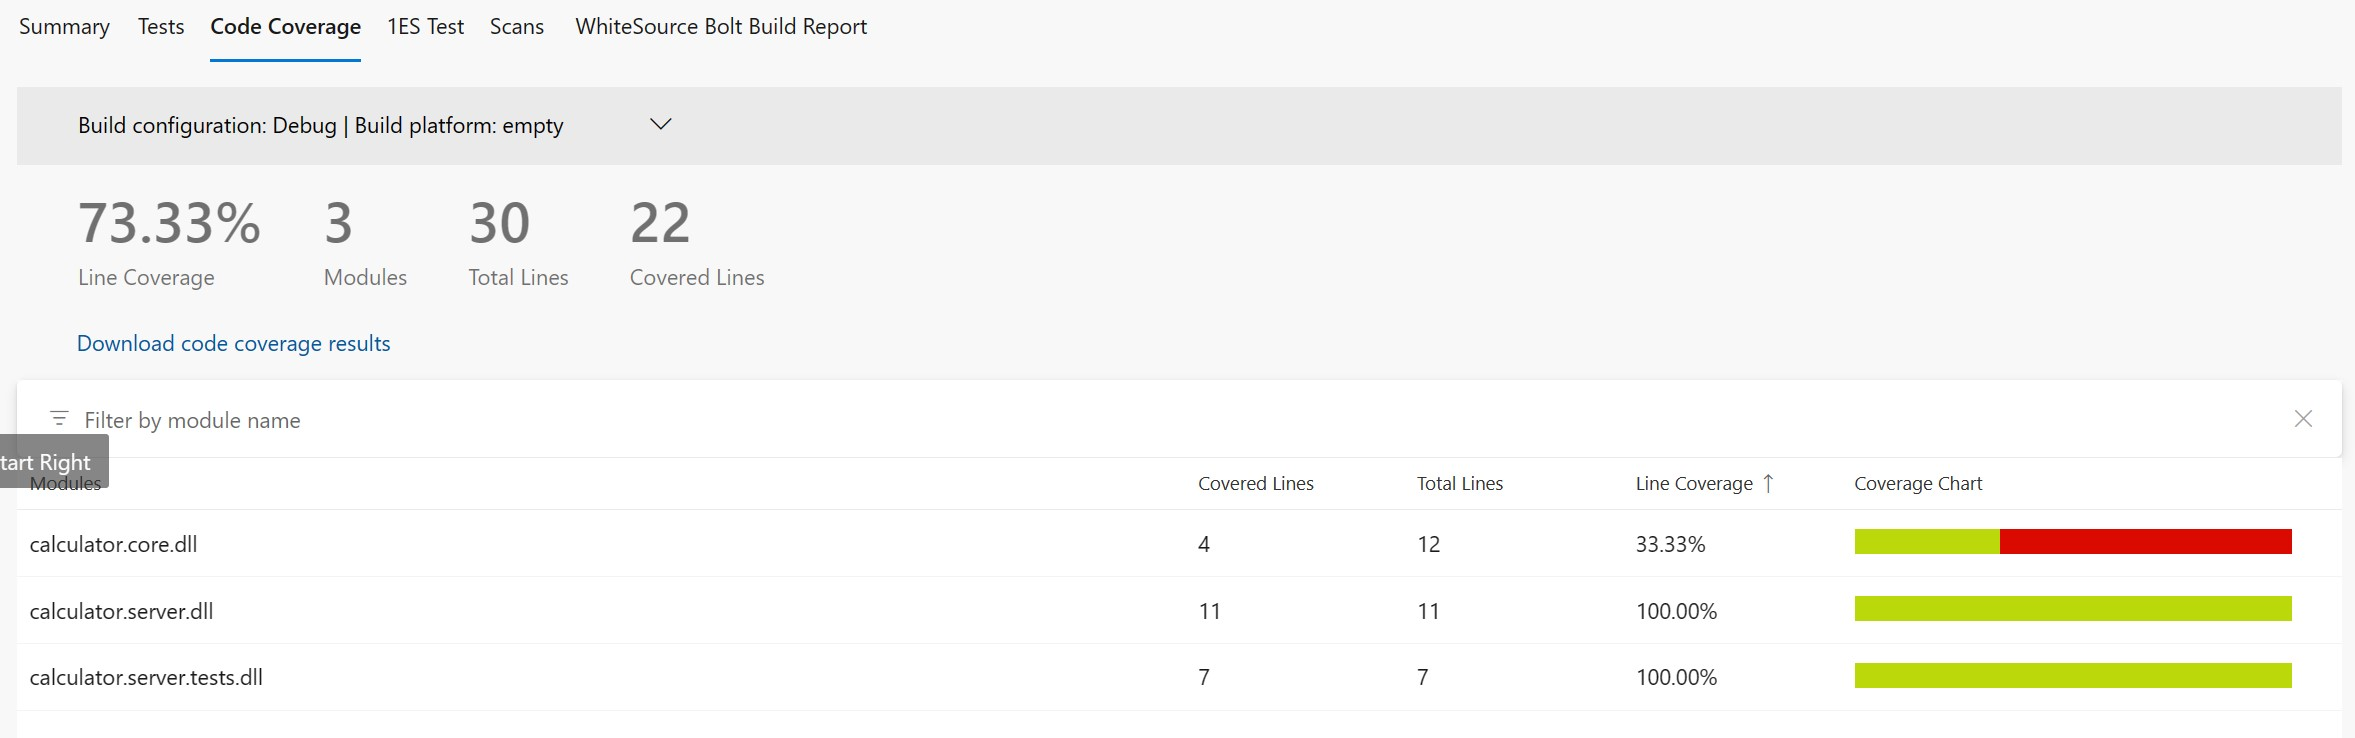
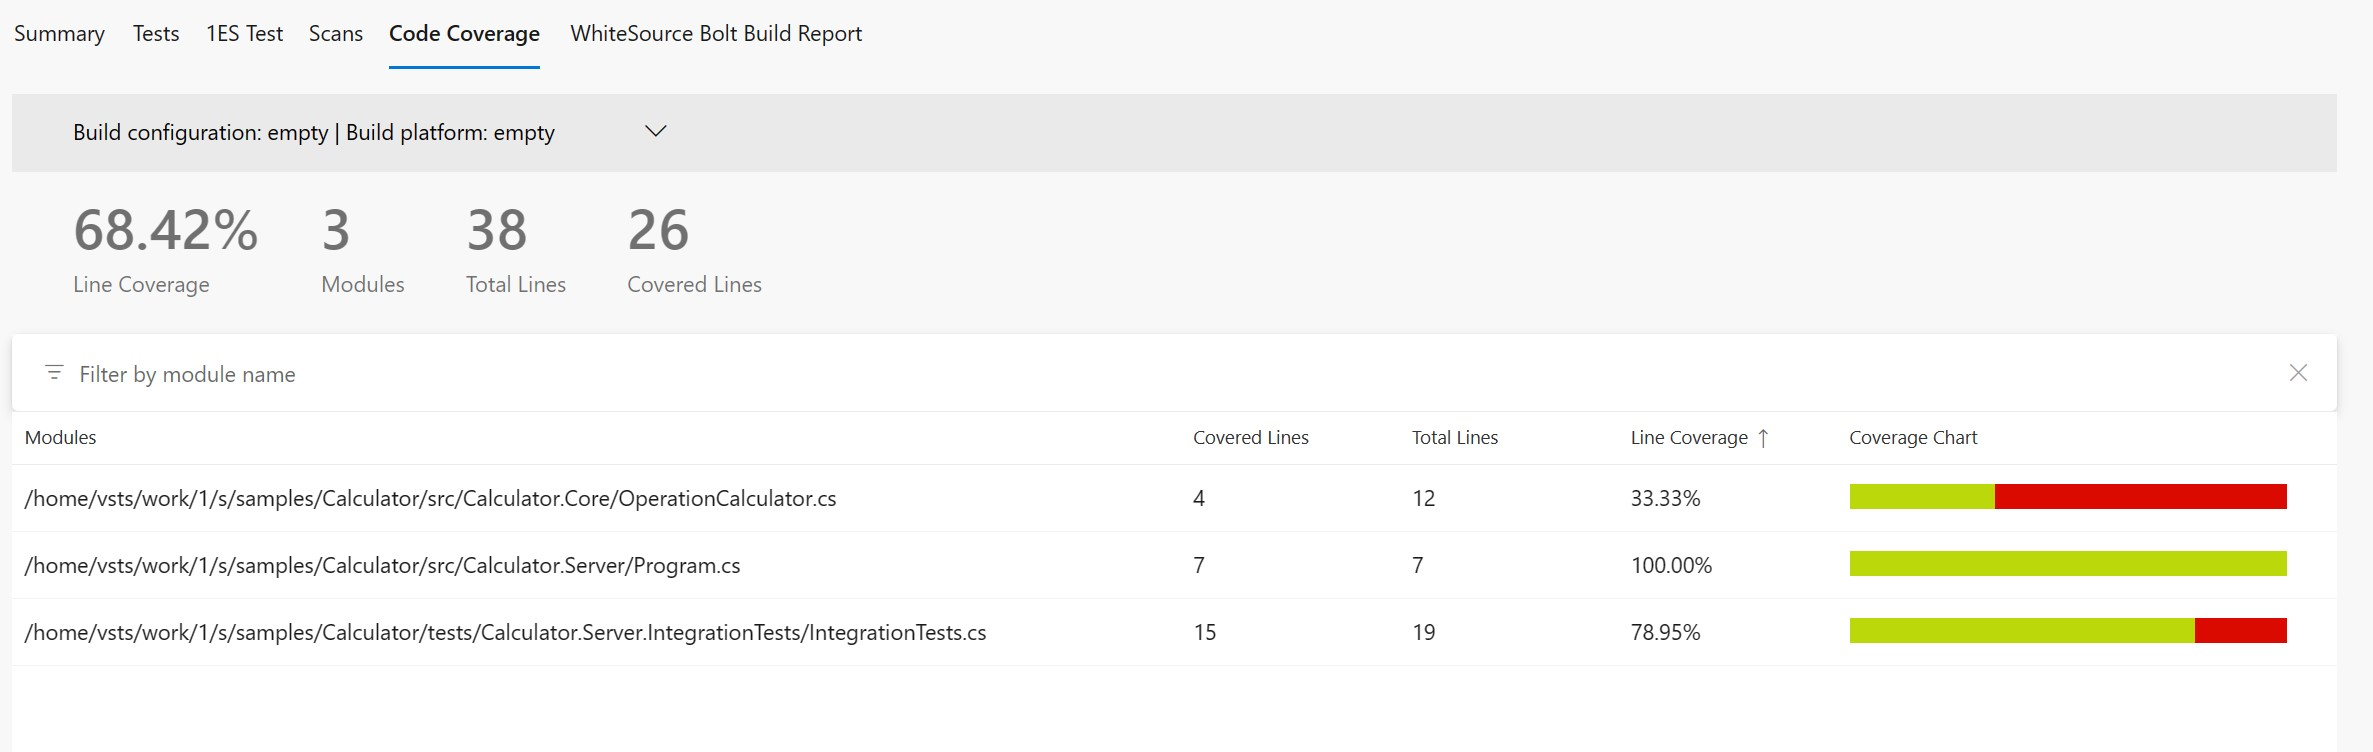
Scenario 15

diff --git a/samples/Calculator/scenarios/scenario14/README.md b/samples/Calculator/scenarios/scenario14/README.md
@@ -1,13 +1,20 @@
 # Scenario Description
 
-Collect code coverage for ASP.NET Core tests. Default format is binary (`.coverage` extension) which can be opened in Visual Studio Enterprise.
+Collect code coverage for ASP.NET Core integration tests. You can find here example how to collect coverage for server and tests if they are running in separate processes and server is started before tests execution. `dotnet-coverage` tool is used to collect code coverage for server. At the end code coverage results for server and tests are merged. Default format is binary (`.coverage` extension) which can be opened in Visual Studio Enterprise. In pipelines during merging final coverage report is converted into cobertura format and published.
 
 # Collect code coverage using command line
 
 ```shell
 git clone https://github.com/microsoft/codecoverage.git
-cd codecoverage/samples/Calculator/tests/Calculator.Server.Tests/
+cd codecoverage/samples/Calculator
+dotnet build
+dotnet tool install -g dotnet-coverage
+cd src/Calculator.Server
+dotnet-coverage collect --output report.coverage --session-id TagScenario14 "dotnet run --no-build" &
+cd ../../tests/Calculator.Server.IntegrationTests
 dotnet test --collect "Code Coverage"
+dotnet-coverage shutdown TagScenario14
+dotnet-coverage merge -r --output merged.coverage *.coverage ../../src/Calculator.Server/report.coverage
 ```
 
 You can also use [run.ps1](run.ps1) to collect code coverage.
@@ -27,12 +34,19 @@ To generate summary report `.coverage` report needs to be converted to `cobertur
       run: dotnet restore
     - name: Build
       run: dotnet build --no-restore
-    - name: Test
-      run: dotnet test --collect "Code Coverage" --no-build --verbosity normal
     - name: Install dotnet-coverage
       run: dotnet tool install -g dotnet-coverage
-    - name: Convert .coverage report to cobertura
-      run: dotnet-coverage merge -r $GITHUB_WORKSPACE/samples/Calculator/tests/Calculator.Server.Tests/TestResults/*.coverage -f cobertura -o $GITHUB_WORKSPACE/report.cobertura.xml
+    - name: Start server
+      run: dotnet-coverage collect --output report.coverage --session-id TagScenario14 "dotnet run --no-build" &
+      working-directory: ./samples/Calculator/src/Calculator.Server
+    - name: Run tests
+      run: dotnet test --collect "Code Coverage" --no-build --verbosity normal
+      working-directory: ./samples/Calculator/tests/Calculator.Server.IntegrationTests
+    - name: Stop server
+      run: dotnet-coverage shutdown TagScenario14
+    - name: Merge coverage reports
+      run: dotnet-coverage merge -r -f cobertura -o $GITHUB_WORKSPACE/report.cobertura.xml *.coverage ../../src/Calculator.Server/report.coverage
+      working-directory: ./samples/Calculator/tests/Calculator.Server.IntegrationTests
     - name: ReportGenerator
       uses: danielpalme/ReportGenerator-GitHub-Action@5.1.24
       with:
@@ -45,7 +59,7 @@ To generate summary report `.coverage` report needs to be converted to `cobertur
       uses: actions/upload-artifact@v3
       with:
         name: code-coverage-report
-        path: ./**/TestResults/**/*.coverage
+        path: '${{ github.workspace }}/report.cobertura.xml'
 ```
 
 [Full source example](../../../../.github/workflows/Calculator_Scenario13.yml)
@@ -64,6 +78,12 @@ steps:
 
 - task: DotNetCoreCLI@2
   inputs:
+    command: 'restore'
+    projects: '$(testProjectPath)' # this is specific to example - in most cases not needed
+  displayName: 'dotnet restore (tests)'
+
+- task: DotNetCoreCLI@2
+  inputs:
     command: 'build'
     arguments: '--no-restore --configuration $(buildConfiguration)'
     projects: '$(projectPath)' # this is specific to example - in most cases not needed
@@ -71,13 +91,57 @@ steps:
 
 - task: DotNetCoreCLI@2
   inputs:
+    command: 'build'
+    arguments: '--no-restore --configuration $(buildConfiguration)'
+    projects: '$(testProjectPath)' # this is specific to example - in most cases not needed
+  displayName: 'dotnet build (tests)'
+
+- task: DotNetCoreCLI@2
+  inputs:
+    command: 'custom'
+    custom: "tool"
+    arguments: 'install -g dotnet-coverage'
+  displayName: 'install dotnet-coverage'
+
+- task: Bash@3
+  inputs:
+    targetType: 'inline'
+    script: 'dotnet-coverage collect --output $(Agent.TempDirectory)/server.coverage --session-id TagScenario14 "dotnet run --project $(projectPath) --no-build" &'
+  displayName: 'start server under coverage'
+
+- task: DotNetCoreCLI@2
+  inputs:
     command: 'test'
-    arguments: '--no-build --configuration $(buildConfiguration) --collect "Code Coverage"'
-    projects: '$(projectPath)' # this is specific to example - in most cases not needed
-  displayName: 'dotnet test'
+    arguments: '--no-build --configuration $(buildConfiguration) --collect "Code Coverage;CoverageFileName=tests.coverage" --logger trx --results-directory $(Agent.TempDirectory)'
+    publishTestResults: false
+    projects: '$(testProjectPath)' # this is specific to example - in most cases not needed
+  displayName: 'execute integration tests'
+
+- task: Bash@3
+  inputs:
+    targetType: 'inline'
+    script: 'dotnet-coverage shutdown TagScenario14'
+  displayName: 'stop server'
+
+- task: Bash@3
+  inputs:
+    targetType: 'inline'
+    script: 'dotnet-coverage merge -f cobertura -o merged.cobertura.xml --recursive "*.coverage"'
+    workingDirectory: "$(Agent.TempDirectory)"
+  displayName: 'merge coverage results'
+
+- task: PublishTestResults@2
+  inputs:
+    testResultsFormat: 'VSTest'
+    testResultsFiles: '$(Agent.TempDirectory)/**/*.trx'
+    publishRunAttachments: false
+
+- task: PublishCodeCoverageResults@2
+  inputs:
+    summaryFileLocation: $(Agent.TempDirectory)/merged.cobertura.xml
 ```
 
-> **_NOTE:_** Azure DevOps pipelines automatically recognize binary coverage report format. Code coverage results are automatically processed and published to Azure DevOps. No additional steps needed.
+> **_NOTE:_** To make sure that Code Coverage tab will be visible in Azure DevOps you need to make sure that previous steps will not publish test attachments (`publishRunAttachments: false` and `publishTestResults: false`).
 
 [Full source example](azure-pipelines.yml)
 
@@ -87,4 +151,4 @@ steps:
 
 ![alt text](example.report.jpg "Example report")
 
-[Link](example.report.coverage)
+[Link](example.report.cobertura.xml)
